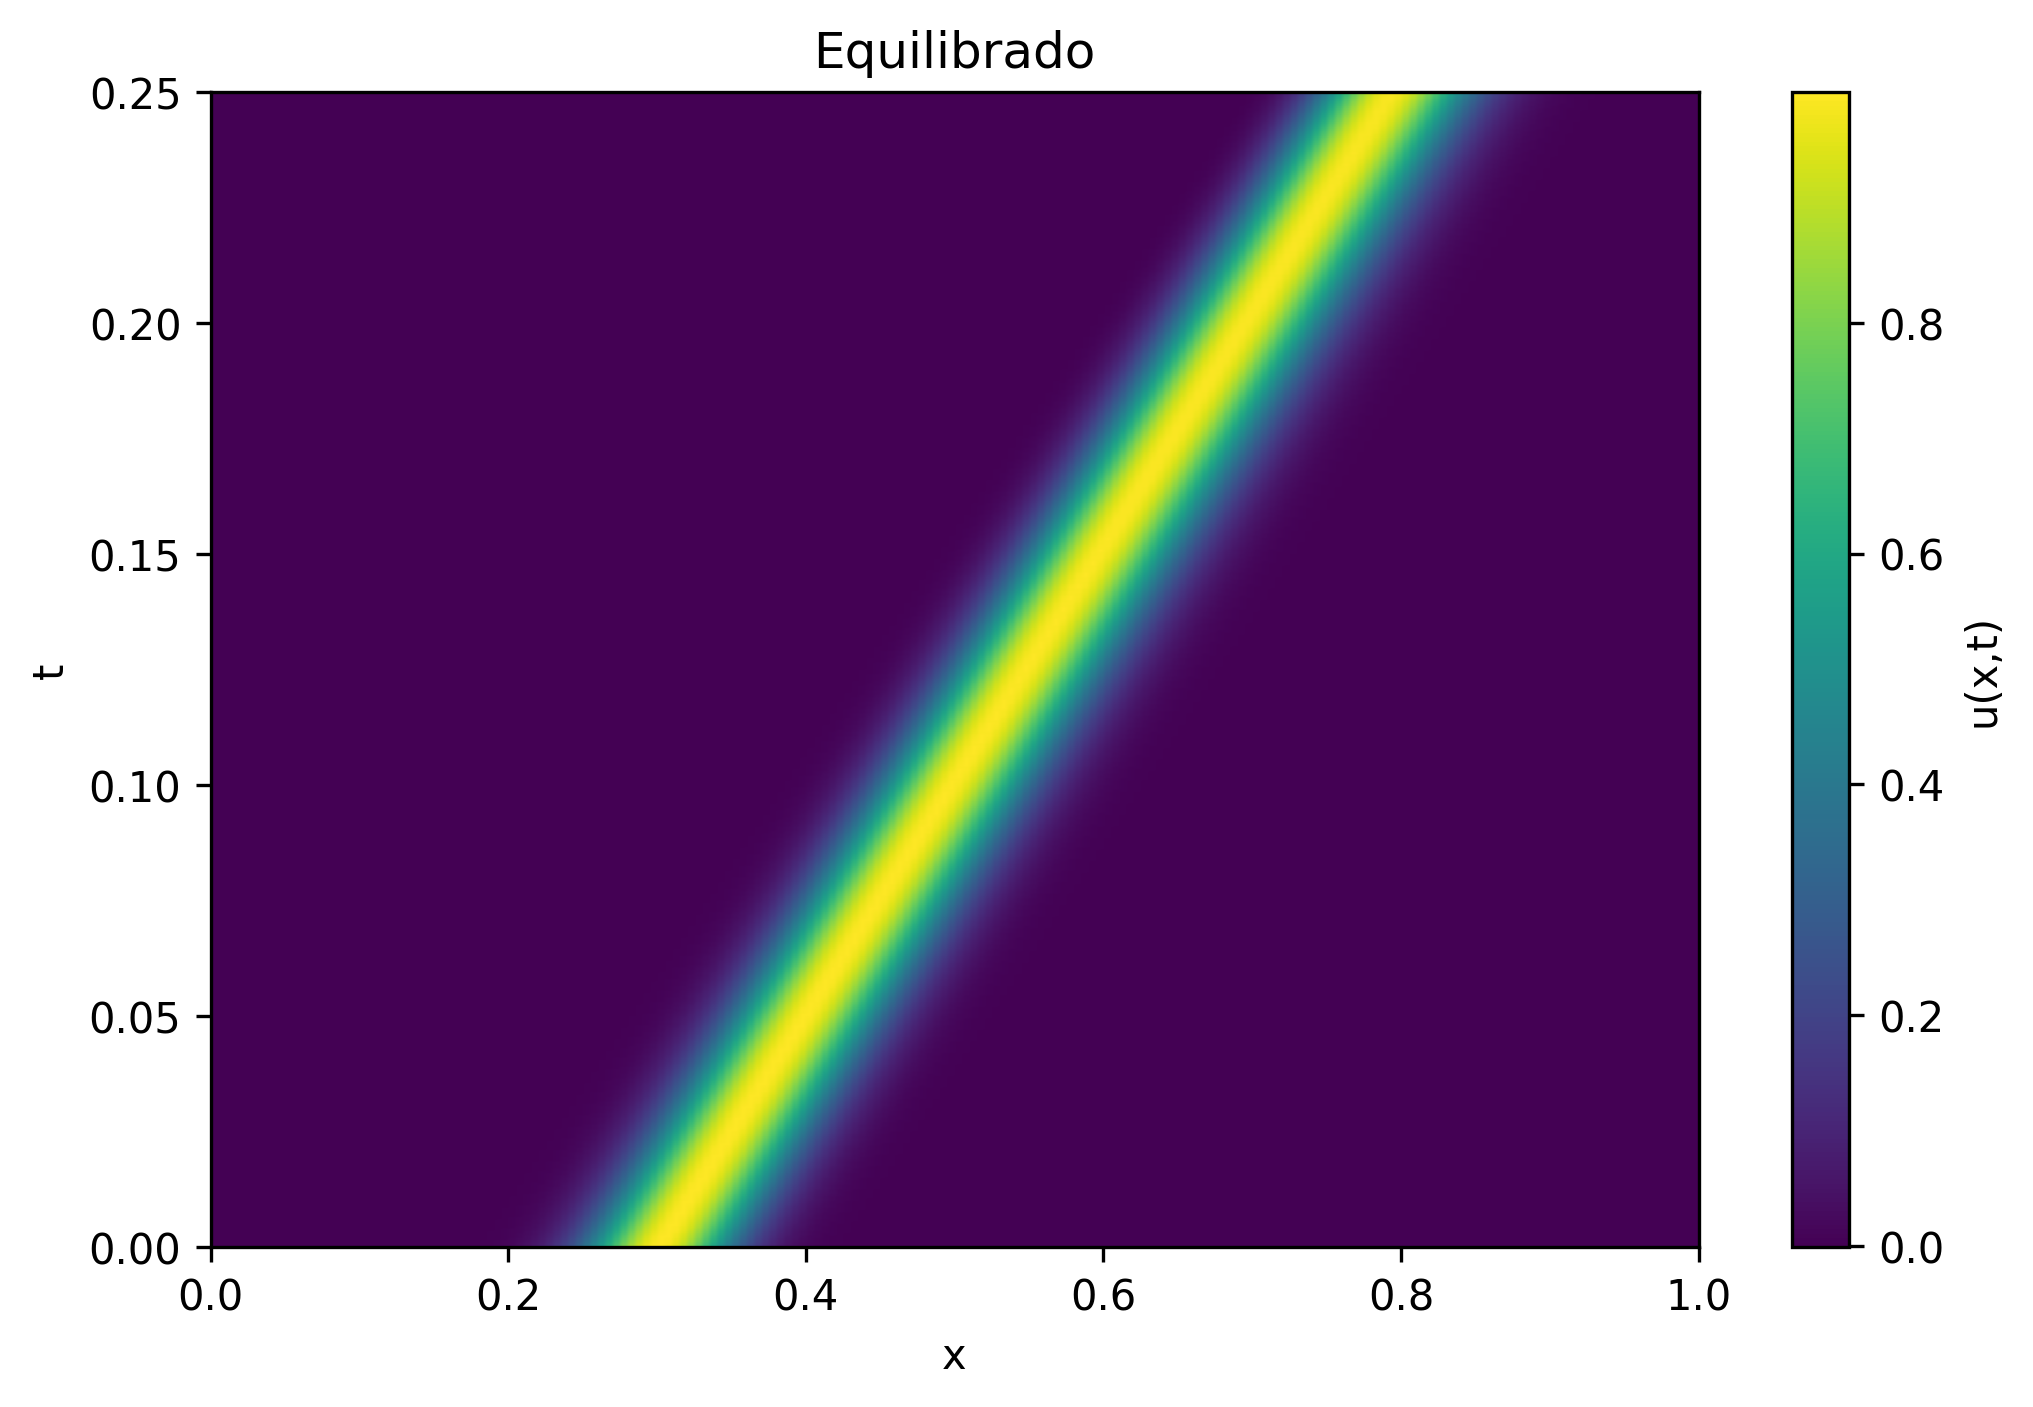
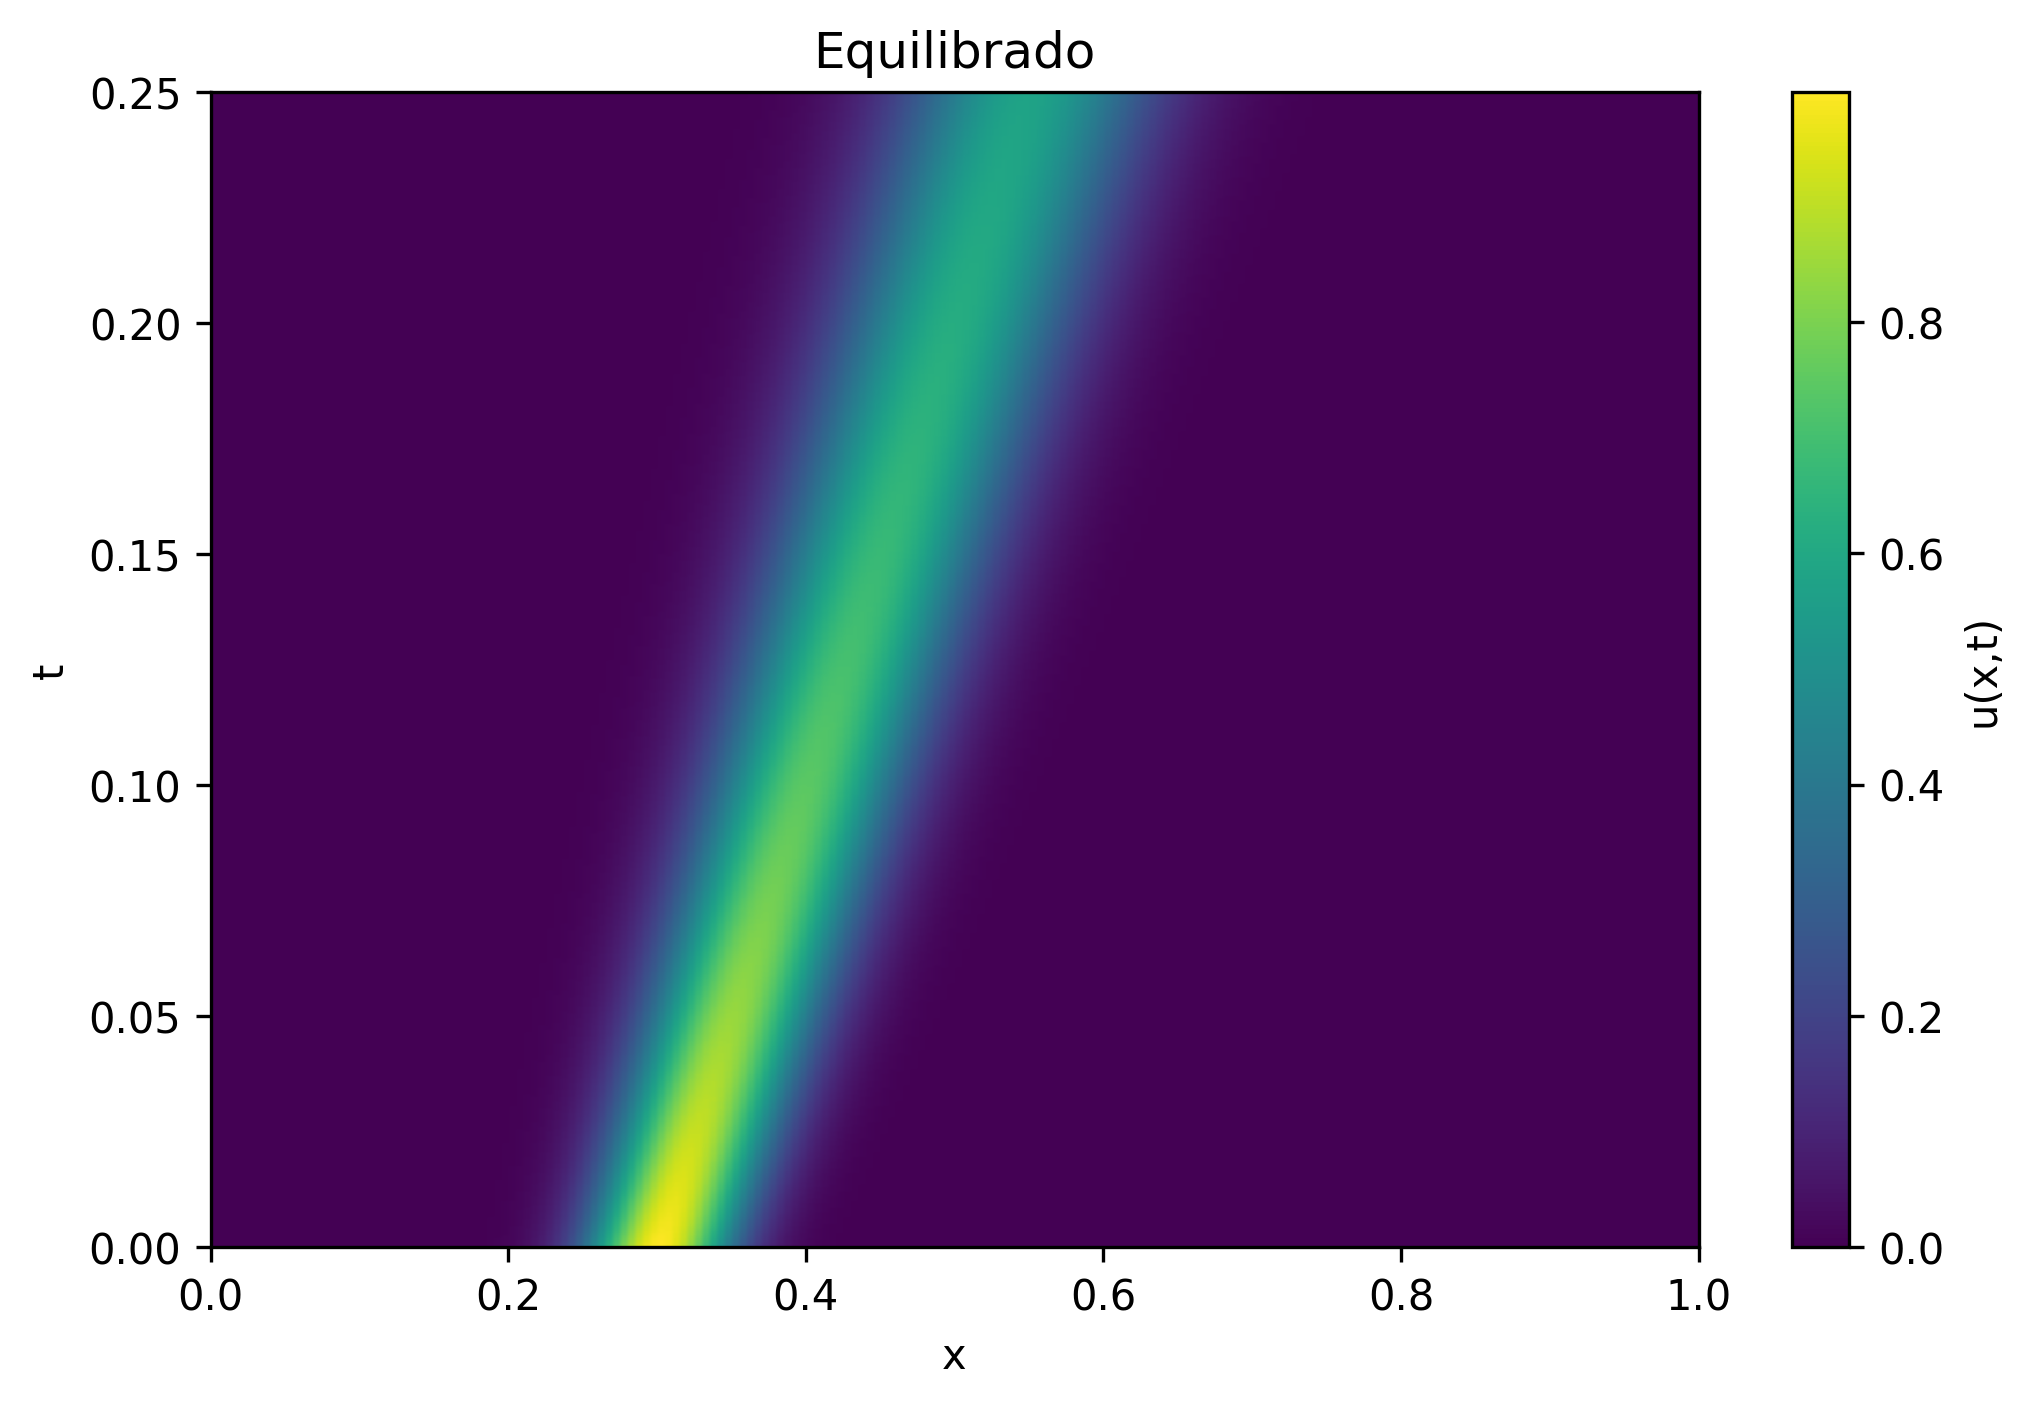
2D balanced representation correction

Changed region(s): [[0.2789, 0.0611, 0.7437, 0.8863], [0.9297, 0.2139, 0.9606, 0.2445]]

diff --git a/main.py b/main.py
@@ -151,7 +151,7 @@ def solve_history(v, D, skip=5):
     return np.array(history)
 
 
-history = solve_history(v=2.0, D=1e-5, skip=5)
+history = solve_history(v=1.0, D=5e-3, skip=5)
 
 
 # espaço 2D
@@ -164,6 +164,7 @@ plt.title("Equilibrado")
 plt.savefig("Equilibrado_espaço-tempo.png", dpi=300, bbox_inches="tight")
 plt.show()
 
+"""
 # Mesh 3D
 T = np.arange(len(history)) * dt * 5
 X, Tgrid = np.meshgrid(x, T)
@@ -178,7 +179,6 @@ ax.set_zlabel("u")
 plt.savefig("Mesh_3D.png", dpi=300, bbox_inches="tight")
 plt.show()
 
-"""
 # =========================================================
 # ANIMAÇÃO LEVE
 # =========================================================